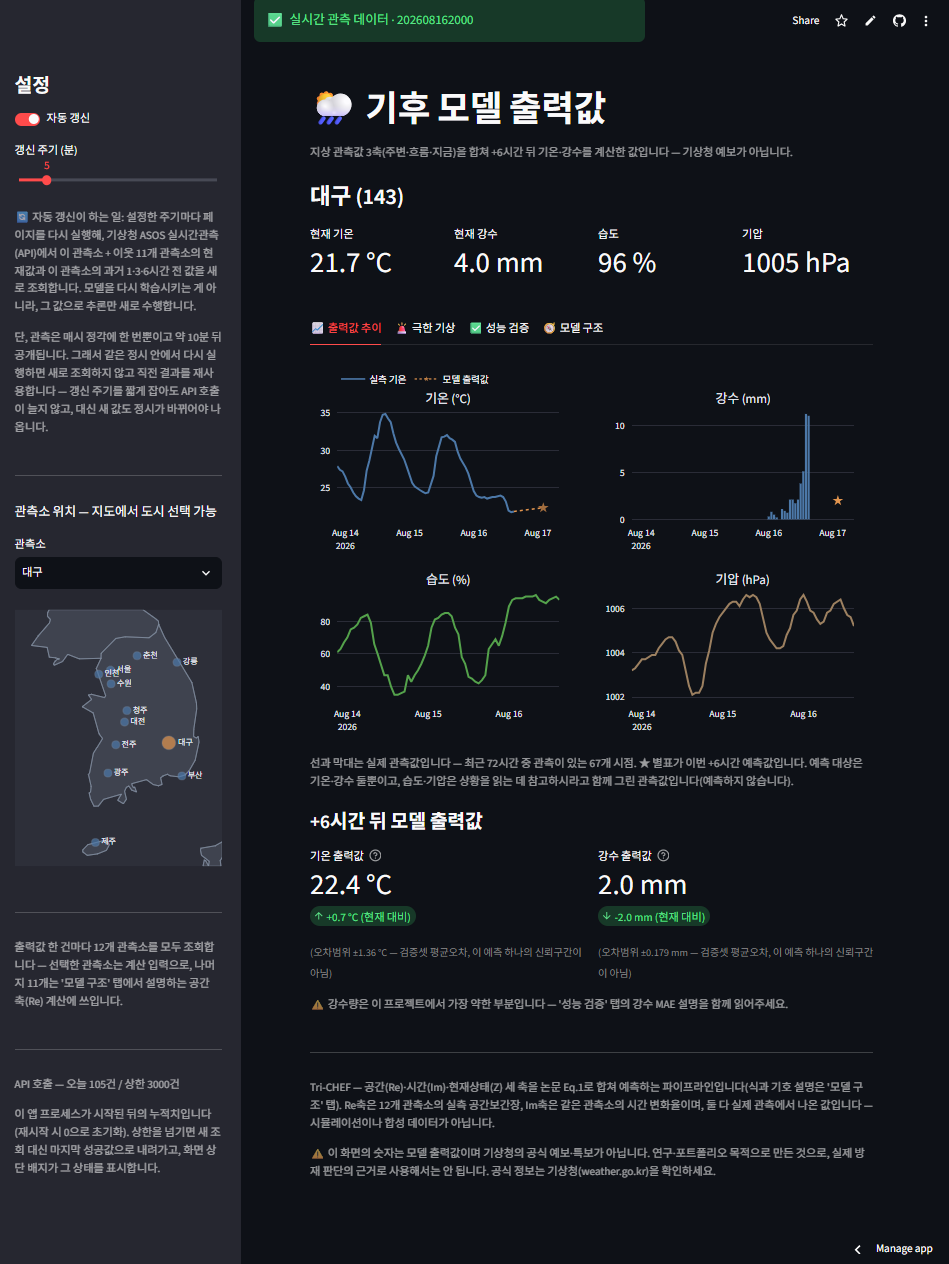
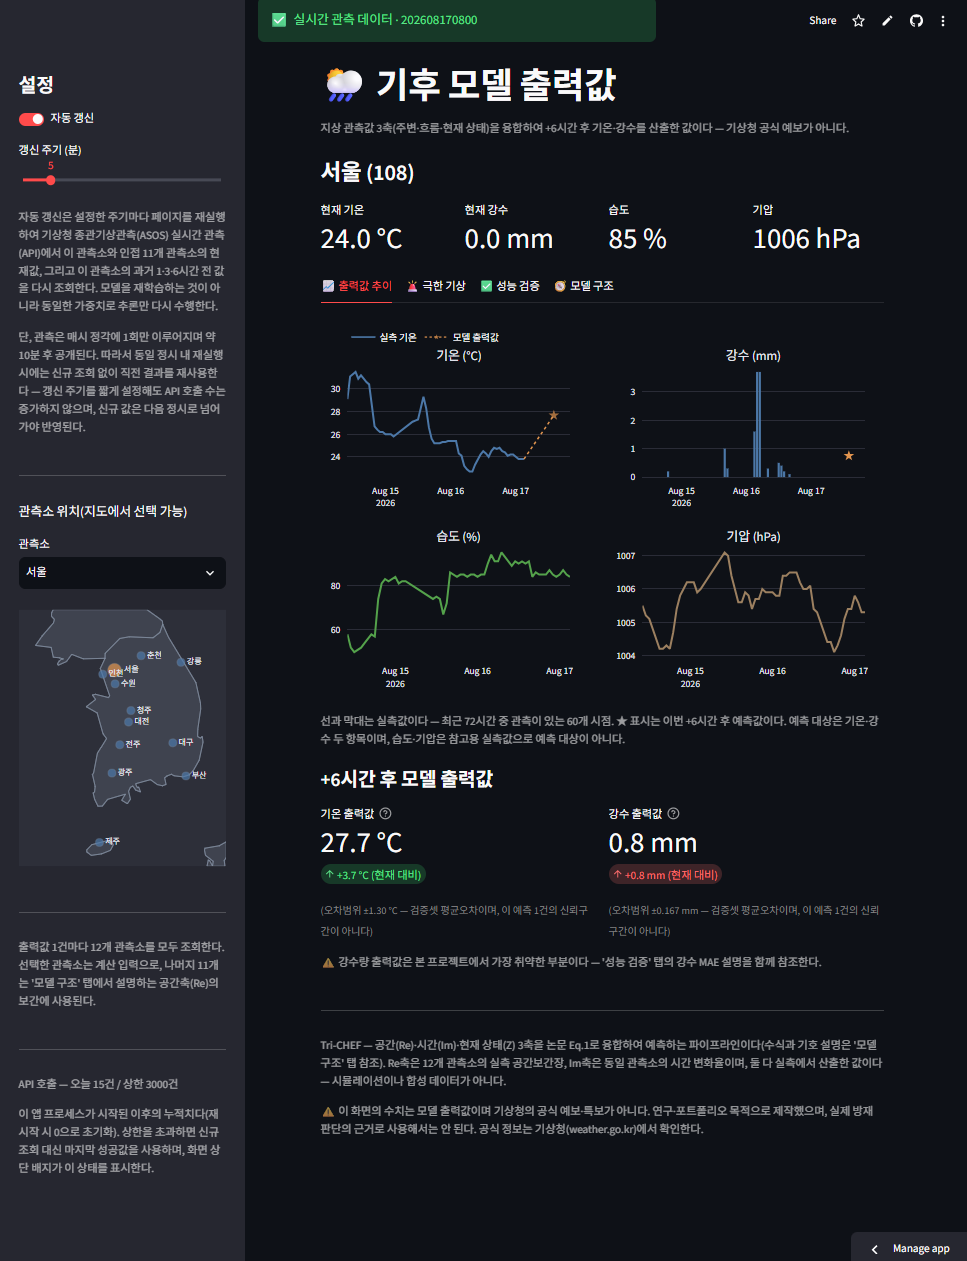
화면·문서 텍스트를 새 모델 기준으로 정리, 스크린샷 갱신
배포 모델 교체 후에도 남아 있던 구버전 서술을 찾아 고쳤다.

app.py
  - 강수 서술: "13.6년으로 확장해도 격차가 안 좁혀졌다"에서 멈춰 있었다.
    부호 표현 추가로 −17.9% → −9.9%가 된 경위를 반영하되, 기준선은 아직
    넘지 못했다는 사실은 그대로 뒀다.
  - 판정 임계값 캡션: 부산 예외(0.33)를 적용 중인 것처럼 설명하고 있었다.
    재검증에서 순이득 −0.0033으로 제거된 사실로 교체했다.
  - 관측소별 성능 캡션: 부산 재현율 71%·정밀도 47%가 구버전 값이었다.
    재생성한 플롯 기준 63.4%·54.0%로 갱신하고, 한파 편차의 원인을 사건
    수(춘천 40건 vs 제주 1건)로 다시 서술했다.
  - 확률 보정 표: v9 기준 ECE를 현행 모델 값으로 교체.
  - 황사 정밀도 11.7% → 10.7%(현행 모델 실측).
  - Z축 "수치 12개" → 14개.
  - 모델 구조 탭에 부호 표현 설명을 신설했다 — 융합식이 부호를 없애
    한겨울에 폭염이 오작동하던 문제와 그 해결을 화면에서 설명한다.

README.md
  - 아키텍처 다이어그램·표의 Z축 12차원 → 14차원.
  - 부산 예외 서술을 "적용 중"에서 "재검증 후 제거"로 교체.
  - 정직한 한계 4번(강수)에 격차 축소 이력을 추가(−25.6% → −19.3% →
    −17.9% → −9.9%).
  - 시간 분할 표에 "12차원 구성에서 측정한 값"임을 명시.
  - v9 행 라벨을 "배포 중"에서 "당시 배포본"으로 정정.

산출물
  - calibration_plot.png을 현행 모델로 재생성.
  - 탭 스크린샷 4종을 사용자 제공 최신 캡처본으로 교체.

CI 20/20·36/36 통과, 내부 링크 11개 정상, 로컬 렌더링 확인.

Claude-Session: https://claude.ai/code/session_01Ns2exaniH8NC9pf8atNHJN

diff --git a/app.py b/app.py
@@ -802,7 +802,7 @@ with tab_extreme:
 
         st.caption(
             "⚠ 황사 확률은 이 화면에서 제외했다. 재보정 후에도 정밀도(precision)가 "
-            "11.7%(황사로 판정한 것 중 88.3%가 오탐)에 그쳐 실용 수준에 미달한다. "
+            "10.7%(황사로 판정한 것 중 89.3%가 오탐)에 그쳐 실용 수준에 미달한다. "
             "PM10 농도는 국외(주로 중국) 장거리 수송의 영향이 지배적이나, 본 모델의 "
             "입력은 국내 12개 지점의 기온·습도·기압·풍속에 한정되어 구조적으로 "
             "판별 단서가 부족하다. 헤드 자체는 유지되어 값은 계산되나, 신뢰도가 "
@@ -832,12 +832,14 @@ with tab_extreme:
             "판정 임계값이 0.5가 아닌 이유: 사건이 드물어 0.5가 최선이 아닐 수 "
             "있으므로, 검증셋을 둘로 나누어 재보정을 시도한다(절차는 '성능 검증' "
             "탭 참조). 전체 관측소를 합산하면 폭염·한파는 재보정 이득이 통계적으로 "
-            "유의하지 않아(순이득 각각 0.005·0.009 — 채택 기준 0.01 미달) 원본 "
-            "확률 기준 0.5를 유지했다. 단, 부산은 예외다 — 관측소별로 분해하면 "
-            "부산 폭염만 정밀도가 유의하게 낮았고(아래 '관측소별 성능' 참조), 부산만 "
-            "별도로 재보정한 결과 순이득 +0.039로 유의하여 원본 기준 0.33으로 "
-            "낮췄다. 위에 표시되는 값이 이보다 낮은 것은 확률 보정을 거치면서 "
-            "임계값도 같은 곡선으로 함께 옮겼기 때문이며, 판정 결과는 동일하다."
+            "유의하지 않아(순이득 각각 0.004·0.005 — 채택 기준 0.01 미달) 원본 "
+            "확률 기준 0.5를 유지했다. 강수만 재산출값(0.83)을 채택했다. 위에 "
+            "표시되는 값이 0.5보다 낮은 것은 확률 보정을 거치면서 임계값도 같은 "
+            "곡선으로 함께 옮겼기 때문이며, 판정 결과는 동일하다.  \n"
+            "이전 모델에서는 부산 폭염에만 전용 임계값(0.33)을 적용했다. 현행 "
+            "모델에서 재검증하니 부산 전용값의 순이득이 −0.0033으로 오히려 전역 "
+            "0.5보다 나빠(부산 F1 0.574) 제거했다 — 검증을 통과하지 못한 예외는 "
+            "두지 않는다."
         )
         st.caption(
             "호우(강수)는 이 탭에 게이지가 없다 — '출력값 추이' 탭의 강수량 값이 "
@@ -910,12 +912,15 @@ with tab_perf:
                 f"(근소하게) 크다. 이 사실을 은폐하지 않고 그대로 표시한다.\n\n"
                 f"원인은 구조적으로 규명되었다 — 극한기상 헤드가 3개로 증가하면서 "
                 f"헤드 간에 공유 표현(shared representation)을 두고 경쟁이 발생해 "
-                f"무강수 억제력이 약화되었다(초기 −25.6%). 가중치 하향 조정으로 현재 "
-                f"수준까지 격차를 좁혔다. 이후 학습 데이터를 3.6년에서 13.6년으로 "
-                f"확장해도 이 격차는 더 좁혀지지 않았다 — 데이터양이 아니라 헤드 간 "
-                f"경쟁 구조 자체가 원인임을 시사한다. 강수는 MAE보다 '강수 발생 "
-                f"여부의 적중 여부'로 판단하는 것이 실용적이며, 해당 지표는 아래 "
-                f"'출력값 적중률'의 강수 항목을 참조한다.",
+                f"무강수 억제력이 약화되었다(초기 −25.6%). 학습 데이터를 3.6년에서 "
+                f"13.6년으로 확장해도 격차가 좁혀지지 않아, 데이터양이 아니라 경쟁 "
+                f"구조 자체가 원인임을 확인했다. 2026-08-17 극한기상 헤드에 별도 "
+                f"입력을 주면서(아래 '계절 오탐' 참조) 격차가 −17.9%에서 현재 "
+                f"수준으로 좁혀졌다 — 헤드들이 필요한 정보를 공유 표현 밖에서 얻게 "
+                f"되어 경쟁이 완화된 것으로 해석한다. 다만 기준선은 아직 넘지 "
+                f"못했다. 강수는 MAE보다 '강수 발생 여부의 적중 여부'로 판단하는 "
+                f"것이 실용적이며, 해당 지표는 아래 '출력값 적중률'의 강수 항목을 "
+                f"참조한다.",
                 icon="⚠",
             )
         elif _naive_precip is None:
@@ -1000,14 +1005,17 @@ with tab_perf:
         if os.path.exists(_calib_path):
             st.image(_calib_path, width="stretch")
             st.caption(
-                "폭염은 부산(159)만 유의하게 낮은데(재현율 71%·정밀도 47%), 원인을 "
-                "규명했다 — 모델이 폭염으로 오판한 날의 실제 기온이 28.65°C로, "
-                "부산 자신의 실제 폭염일 평균(27.38°C)보다 오히려 높다. 부산만 "
-                "공식 판정 기준이 다르나 모델은 관측소 구분 없이 공통 기준으로 "
-                "학습되었다는 의미다. 한파는 대구·강릉의 재현율이 유독 낮은 원인도 "
-                "확인했다 — 시간 단위 표본은 216~384건으로 충분해 보였으나, 사건 "
-                "단위로 세면 각각 10건·8건에 불과했다(춘천은 동일 기준 40건) — "
-                "표본 부족이 원인이었다."
+                "폭염은 부산(159)이 여전히 가장 낮으나(재현율 63.4%·정밀도 "
+                "54.0%) 이전 모델(71%·47%)보다 정밀도가 개선되었다. 부산만 공식 "
+                "판정 기준이 다른데 모델은 관측소 구분 없이 공통 기준으로 "
+                "학습된다는 구조는 그대로이므로, 격차 자체는 남아 있다. 이전 "
+                "모델에서는 이를 보완하려 부산 전용 임계값을 적용했으나 현행 "
+                "모델에서는 검증을 통과하지 못해 제거했다(위 '판정 임계값' 참조).  \n"
+                "한파는 관측소별 편차가 크며 원인은 표본 부족이다. 사건 수로 세면 "
+                "춘천 40건인 반면 광주 4건·부산 2건·제주 1건에 그친다 — 시간 "
+                "단위로는 5,300건 안팎으로 충분해 보이지만, 한파는 며칠씩 이어져 "
+                "연속 표본이 서로 독립이 아니다. 사건이 적은 관측소일수록 신뢰구간"
+                "(십자)이 크게 그려지는 것이 이 사실을 그대로 보여준다."
             )
         else:
             st.caption(
@@ -1043,8 +1051,8 @@ with tab_perf:
         )
         _rows = ["| 사건 | 보정 전 ECE | 보정 후 ECE | F1 변화 |", "|---|---|---|---|"]
         for _k, _ko, _e0, _e1, _f in (
-            ("heatwave", "🔥 폭염", 0.0388, 0.0043, "0.8122 → 0.8119"),
-            ("coldwave", "🥶 한파", 0.0446, 0.0034, "0.4629 → 0.4629"),
+            ("heatwave", "🔥 폭염", 0.0338, 0.0048, "0.8144 → 0.8144"),
+            ("coldwave", "🥶 한파", 0.0517, 0.0031, "0.4492 → 0.4471"),
         ):
             if _k in _cal:
                 _rows.append(f"| {_ko} | {_e0:.4f} | **{_e1:.4f}** | {_f} |")
@@ -1176,7 +1184,7 @@ with tab_model:
         "| 축 | 질문 | 입력 데이터 |\n"
         "|---|---|---|\n"
         "| Z축(현재 상태) | 이 관측소는 현재 어떤 상태인가 | 이번 시각의 "
-        "관측값 — 기온·강수·습도·풍속·풍향·기압·위도·경도 등 수치 12개 |\n"
+        "관측값 — 기온·강수·습도·풍속·풍향·기압·위도·경도·연중 시각 등 수치 14개 |\n"
         "| Re축(주변 상태) | 주변 지역은 현재 어떤 상태인가 | 나머지 11개 "
         "관측소의 동일 시각 관측값을, 거리에 따라 가중치를 두어 지도 형태로 "
         "보간(거리가중 보간) |\n"
@@ -1331,6 +1339,17 @@ with tab_model:
         "처럼 발생 여부를 판별하는 과제를 이진분류(binary classification)라 "
         "부른다. 둘은 학습 방식이 상이하여 헤드를 분리한다."
     )
+    if ckpt.get("signed_head_input"):
+        st.caption(
+            "극한기상 헤드 3종만 `s` 외에 Z축 벡터를 함께 입력받는다(2026-08-17). "
+            "위 융합 수식은 제곱을 거치므로 부호가 사라지고, 헤드는 '얼마나 "
+            "벗어났는가'만 알 뿐 '위로 벗어났는지 아래로 벗어났는지'를 알 수 "
+            "없다. 그 결과 이전 모델은 한겨울에 폭염 확률을 올렸다 — 실제 −15°C "
+            "이하 관측의 85.7%에서 폭염 확률이 판정선을 넘었다. Z축 벡터는 제곱을 "
+            "거치지 않아 부호가 살아 있으므로, 이를 함께 넣어 두 극단을 구분하게 "
+            "했다(오탐 85.7% → 0.08%). 기온 헤드가 절대값 대신 변화량을 학습하는 "
+            "것과 같은 이유의 조치이며, 상세 내용은 '성능 검증' 탭을 참조한다."
+        )
     st.markdown("강수의 허들(Hurdle) 구조 — 두 헤드를 곱하는 이유")
     st.latex(r"\hat{y}_{precip} \;=\; \sigma(z_1)\;\times\;\mathrm{softplus}(z_2)")
     st.markdown(
